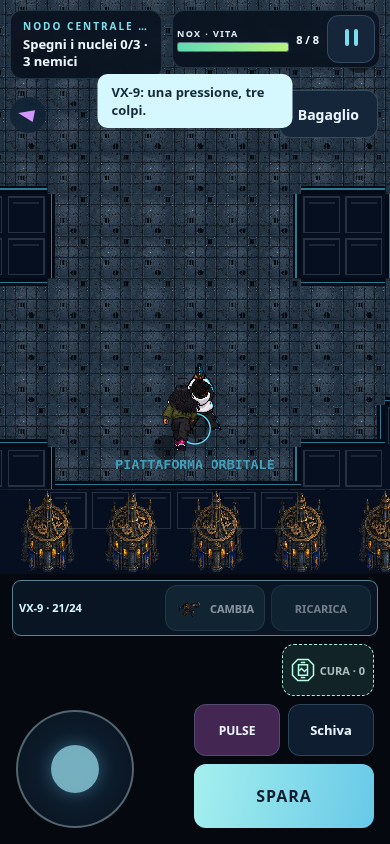
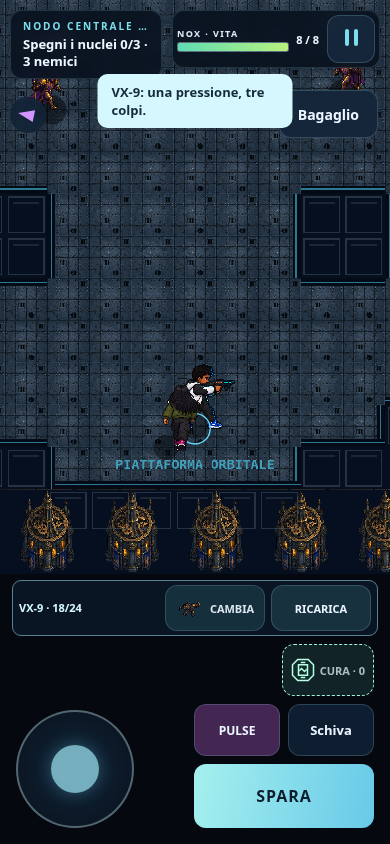
Match manual aim preview to equipped weapon range and spread

diff --git a/docs/gold/EQUIPPED_WEAPONS.md b/docs/gold/EQUIPPED_WEAPONS.md
@@ -9,3 +9,7 @@ Asset e audio: due ADAPT prodotti e integrati. Riusati i cue originali VX-9/R-12
 Prove: `docs/evidence/v10.2/equipped-browser-report.json`, screenshot `equipped-{vx9,r12}.png`, suite `equipped-tests.txt`. Cambio e tiro tramite comandi ordinari; entrambe le risorse caricate, cartucce consumate, cue decodificati avviati e zero errori browser. Il test Android verifica packaging/allowlist e compilazione del JS, non esecuzione sul dispositivo.
 
 Nessuno dei 74 criteri è chiuso commercialmente da questa revisione. COMMERCIAL_RELEASE = BLOCKED. Rimangono il roster/incontri/armi e gare nella progressione, produzione audio restante, revisione autonoma arte e narrativa, playtest umani della durata, WebView/Android fisico e licenze. Prossimo intervento: animazioni di ricarica/trasporto prima di considerare completa la famiglia delle tre armi; poi H-17/ARC-7 con incontri e ricompense previsti.
+
+## Ricontrollo mira manuale
+
+Corretto il mirino che usava sempre GUN_RANGE: ora la portata proviene dall'arma attiva (R-12 195, VX-9 340) e la rosata mostra tre guide, centrale e limiti angolari ±0,32 radianti. Ogni guida usa la collisione del tiro contro le pareti. Nessun nuovo asset necessario: feedback geometrico runtime, sprite e audio già prodotti riusati. Narrativa e salvataggi non modificati. Suite 176/176 PASS (`aim-preview-tests.txt`); pressione/trascinamento reali nel browser e screenshot `aim-r12.png`, `aim-vx9.png`. Prove Android fisiche e gate commerciali restano aperti.
